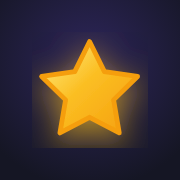
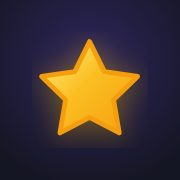
Improvements in the splash screen

Changed region(s): [[0.3333, 0.6667, 0.6667, 0.8333], [0.6389, 0.5, 0.7222, 0.7222], [0.2778, 0.5, 0.3611, 0.7222]]

diff --git a/index.html b/index.html
@@ -18,7 +18,7 @@
     <link rel="preconnect" href="https://fonts.googleapis.com">
     <link rel="preconnect" href="https://fonts.gstatic.com" crossorigin>
     <link href="https://fonts.googleapis.com/css2?family=Outfit:wght@400;600;700;800&family=Fredoka:wght@500;600;700&display=swap" rel="stylesheet">
-    <link rel="stylesheet" href="app.css?t=20260929_1524">
+    <link rel="stylesheet" href="app.css?t=20260929_1535">
 </head>
 
 <body>
@@ -32,9 +32,9 @@
                         <stop offset="45%" stop-color="#fbbf24" />
                         <stop offset="100%" stop-color="#f59e0b" />
                     </linearGradient>
-                    <filter id="splashGlow" x="-30%" y="-30%" width="160%" height="160%">
-                        <feDropShadow dx="0" dy="2" stdDeviation="4" flood-color="#fbbf24" flood-opacity="0.6" />
-                        <feDropShadow dx="0" dy="4" stdDeviation="10" flood-color="#000" flood-opacity="0.4" />
+                    <filter id="splashGlow" x="-20%" y="-20%" width="140%" height="140%">
+                        <feDropShadow dx="0" dy="2" stdDeviation="2.5" flood-color="#000000" flood-opacity="0.25" />
+                        <feDropShadow dx="0" dy="0" stdDeviation="3" flood-color="#fbbf24" flood-opacity="0.35" />
                     </filter>
                 </defs>
                 <polygon points="12 2 15.09 8.26 22 9.27 17 14.14 18.18 21.02 12 17.77 5.82 21.02 7 14.14 2 9.27 8.91 8.26 12 2" fill="url(#splashSparkGrad)" stroke="#f59e0b" stroke-width="1" stroke-linecap="round" stroke-linejoin="round" filter="url(#splashGlow)" />
@@ -273,6 +273,16 @@
                     </ul>
                 </div>
 
+                <div class="help-github-link">
+                    <a href="https://github.com/fevangelou/sparkydraw" target="_blank" rel="noopener noreferrer" class="github-repo-link" title="View SparkyDraw on GitHub">
+                        <svg class="github-icon" viewBox="0 0 24 24" width="18" height="18" fill="currentColor" aria-hidden="true">
+                            <path d="M12 0C5.37 0 0 5.37 0 12c0 5.31 3.435 9.795 8.205 11.385.6.105.825-.255.825-.57 0-.285-.015-1.23-.015-2.235-3.015.555-3.795-.735-4.035-1.41-.135-.345-.72-1.41-1.23-1.695-.42-.225-1.02-.78-.015-.795.945-.015 1.62.87 1.845 1.23 1.08 1.815 2.805 1.305 3.495.99.105-.78.42-1.305.765-1.605-2.67-.3-5.46-1.335-5.46-5.925 0-1.305.465-2.385 1.23-3.225-.12-.3-.54-1.53.12-3.18 0 0 1.005-.315 3.3 1.23.96-.27 1.98-.405 3-.405s2.04.135 3 .405c2.295-1.56 3.3-1.23 3.3-1.23.66 1.65.24 2.88.12 3.18.765.84 1.23 1.905 1.23 3.225 0 4.605-2.805 5.625-5.475 5.925.435.375.81 1.095.81 2.22 0 1.605-.015 2.895-.015 3.3 0 .315.225.69.825.57A12.02 12.02 0 0 0 24 12c0-6.63-5.37-12-12-12z" />
+                        </svg>
+                        <span>fevangelou/sparkydraw</span>
+                        <span class="github-handle">@fevangelou</span>
+                    </a>
+                </div>
+
                 <div class="help-footer">
                     <div class="help-meta">
                         <span class="help-badge">v1.0</span>
@@ -284,8 +294,8 @@
         </div>
     </div>
 
-    <script src="i18n.js?t=20260929_1524"></script>
-    <script src="app.js?t=20260929_1524"></script>
+    <script src="i18n.js?t=20260929_1535"></script>
+    <script src="app.js?t=20260929_1535"></script>
 
     <!-- Yandex.Metrika counter -->
     <script type="text/javascript">

diff --git a/app.css b/app.css
@@ -231,6 +231,11 @@ button {touch-action:manipulation;}
 .help-list li::before {content:'•';position:absolute;left:2px;color:var(--accent-spark);font-weight:bold;}
 .help-list strong {color:#ffffff;}
 .help-list kbd, .help-intro code, .help-list code {background:rgba(255, 255, 255, 0.12);padding:2px 6px;border-radius:4px;font-size:13px;font-family:monospace;color:#ffffff;}
+.help-github-link {display:flex;justify-content:center;align-items:center;padding:4px 0 2px;}
+.github-repo-link {display:inline-flex;align-items:center;gap:8px;padding:7px 16px;background:rgba(255, 255, 255, 0.06);border:1px solid rgba(255, 255, 255, 0.12);border-radius:var(--radius-pill);color:var(--text-muted);font-size:13px;font-weight:600;text-decoration:none;transition:all var(--transition-fast);}
+.github-repo-link:hover {background:rgba(255, 255, 255, 0.14);border-color:rgba(255, 255, 255, 0.28);color:#ffffff;transform:translateY(-1px);box-shadow:0 4px 12px rgba(0, 0, 0, 0.3);}
+.github-repo-link .github-icon {fill:currentColor;flex-shrink:0;}
+.github-handle {color:var(--accent-spark);font-weight:700;}
 .help-footer {display:flex;align-items:center;justify-content:space-between;gap:12px;flex-wrap:wrap;padding-top:12px;border-top:1px solid rgba(255, 255, 255, 0.1);margin-top:2px;}
 .help-footer .btn-got-it, #btnGotIt {width:auto !important;min-width:fit-content;height:auto !important;min-height:36px;padding:8px 22px !important;font-size:14px;font-weight:700;white-space:nowrap;border-radius:var(--radius-pill);box-sizing:border-box;flex-shrink:0;}
 .help-meta {display:flex;align-items:center;gap:8px;}

diff --git a/app.js b/app.js
@@ -1395,22 +1395,22 @@
             saveCanvasToStorage();
         });
 
-        // Hide initial splash screen smoothly once canvas & UI are ready
+        // Hide initial splash screen smoothly once canvas & UI are ready (3s on mobile/tablet)
         const splash = document.getElementById('appSplash');
         if (splash) {
-            requestAnimationFrame(() => {
-                setTimeout(() => {
-                    splash.classList.add('fade-out');
-                    setTimeout(() => splash.remove(), 400);
-                }, 200);
-            });
+            const isMobileOrTablet = window.innerWidth <= 1024 || window.matchMedia('(pointer: coarse)').matches || ('ontouchstart' in window);
+            const delay = isMobileOrTablet ? 3000 : 250;
+            setTimeout(() => {
+                splash.classList.add('fade-out');
+                setTimeout(() => splash.remove(), 400);
+            }, delay);
         }
     }
 
     // Register PWA Service Worker for offline support
     if ('serviceWorker' in navigator) {
         window.addEventListener('load', () => {
-            navigator.serviceWorker.register('./sw.js').catch(() => {});
+            navigator.serviceWorker.register('./sw.js').catch(() => { });
         });
     }
 

diff --git a/sw.js b/sw.js
@@ -1,4 +1,4 @@
-const CACHE_NAME = 'sparkydraw-v1.0';
+const CACHE_NAME = 'sparkydraw-v1.1';
 
 const PRECACHE_ASSETS = [
     './',
